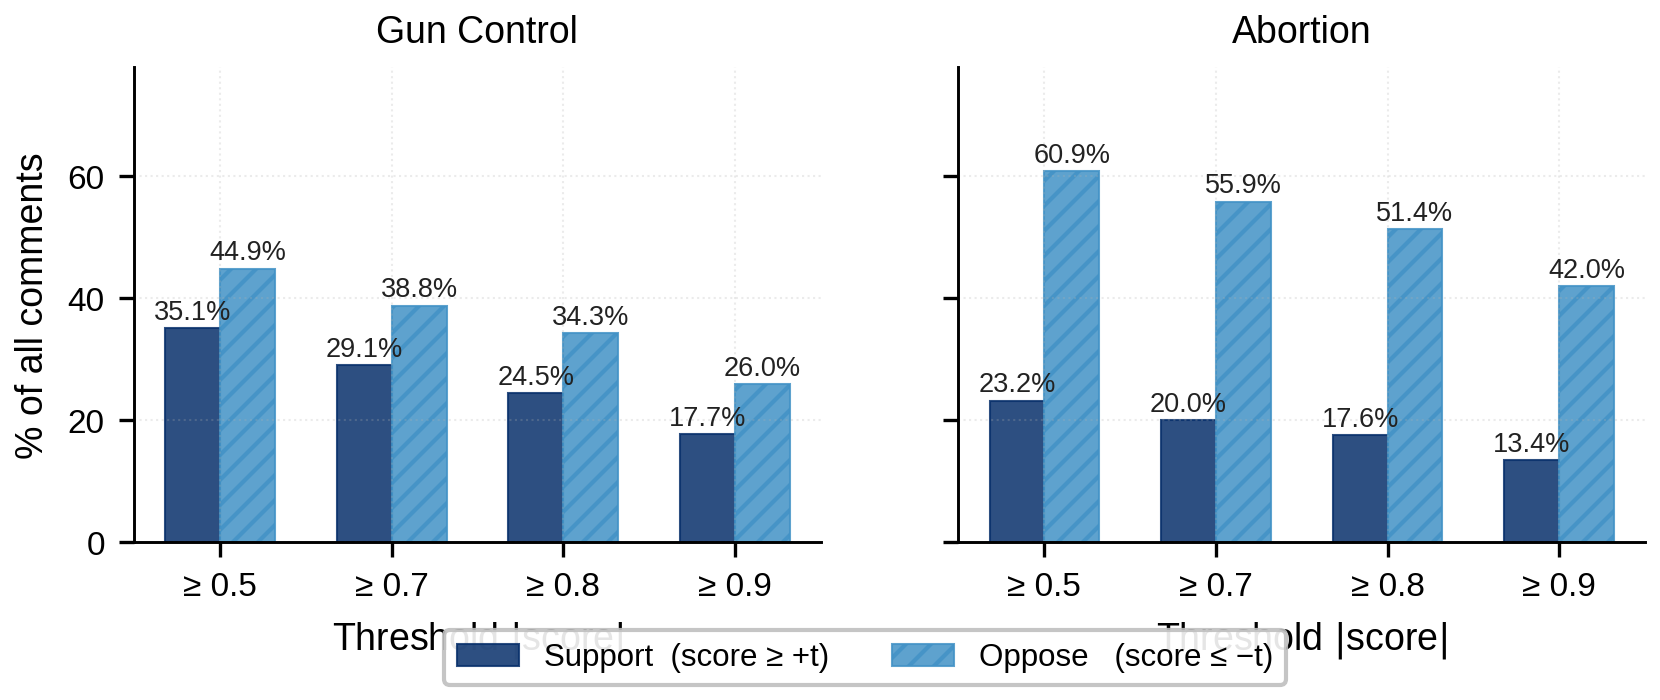
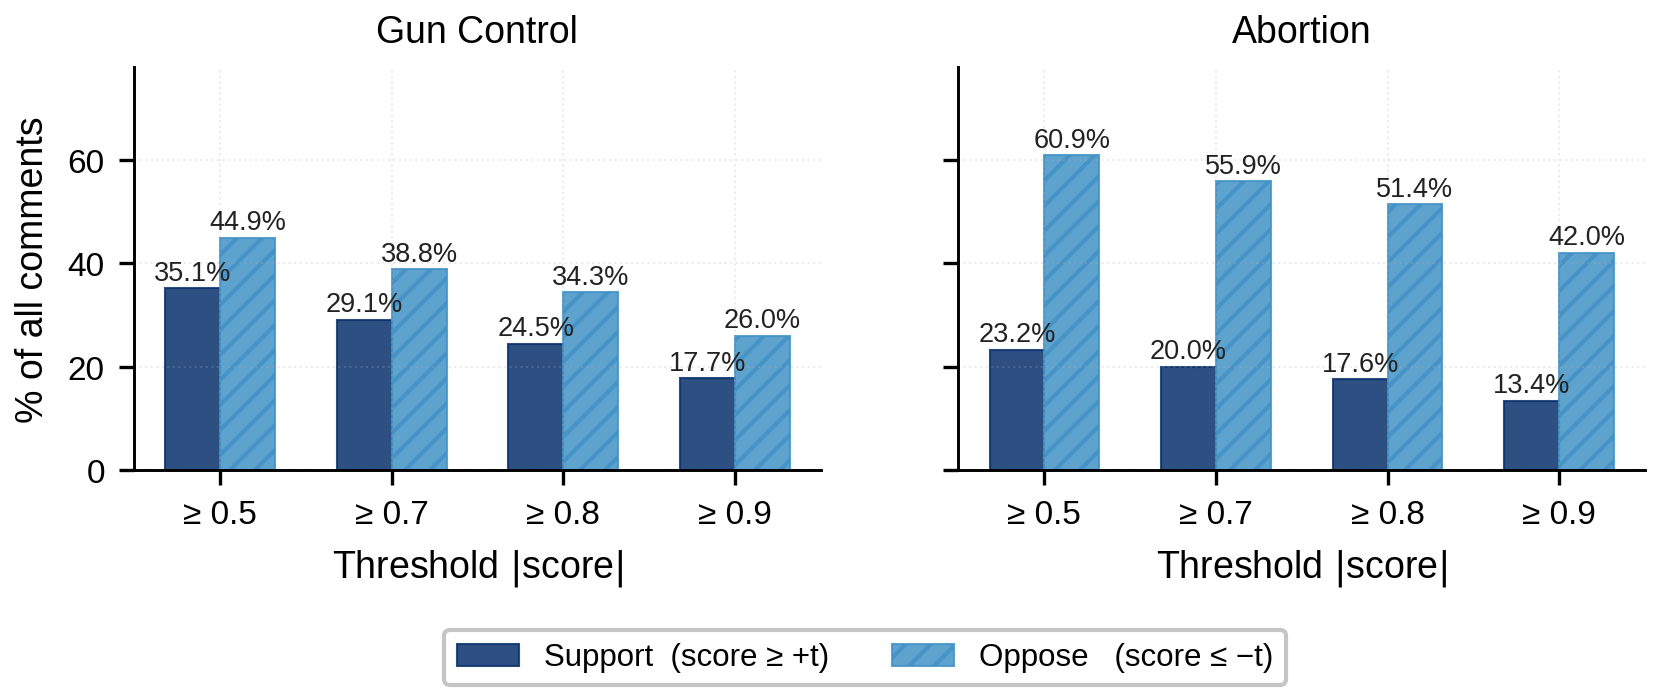
Increase chart3 bottom margin so legend clears x-axis labels

diff --git a/visualize_stance.py b/visualize_stance.py
@@ -248,7 +248,7 @@ axes[0].set_ylabel("% of all comments")
 handles, labels = axes[0].get_legend_handles_labels()
 fig.legend(handles, labels, ncol=2, loc="lower center",
            bbox_to_anchor=(0.5, 0.0), fontsize=7.5)
-fig.subplots_adjust(bottom=0.22)
+fig.subplots_adjust(bottom=0.32)
 p = os.path.join(CHART_DIR, "chart3_extremes.png")
 fig.savefig(p)
 plt.close(fig)
